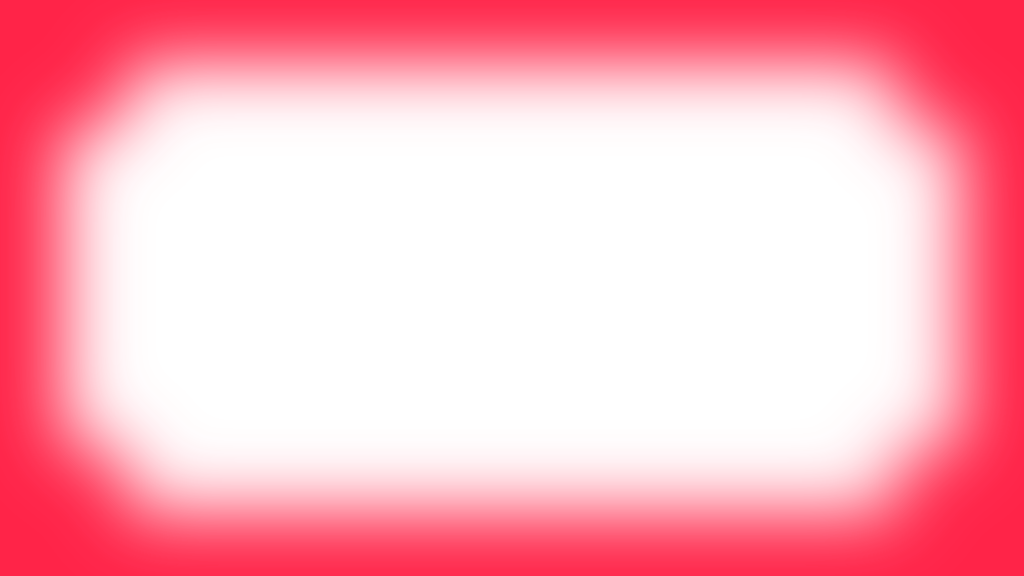
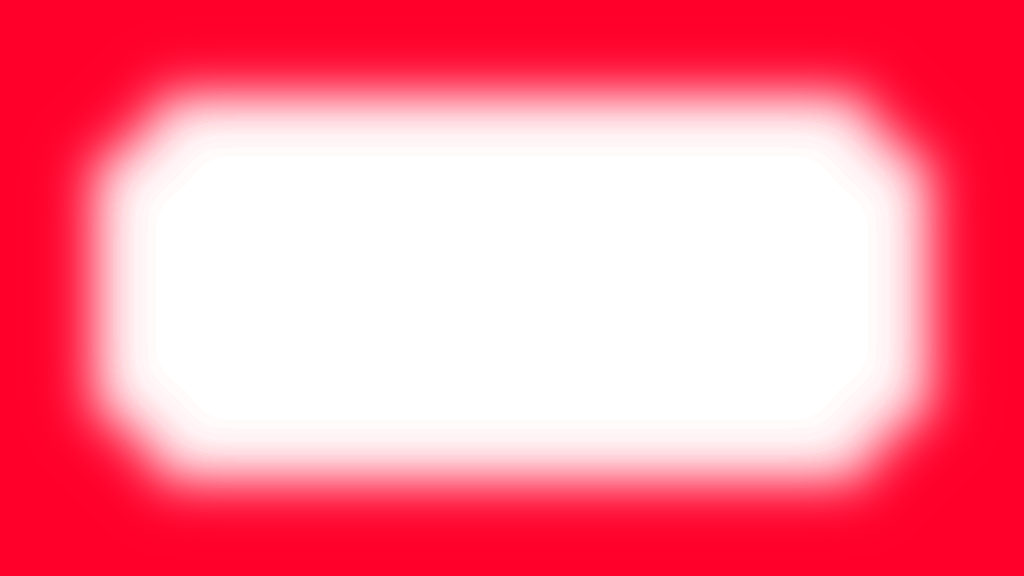
setting up visual effects to show when the player is low on HP

diff --git a/Assets/Scripts/PlayerStatManager.cs b/Assets/Scripts/PlayerStatManager.cs
@@ -75,7 +75,7 @@ public class PlayerStatManager : MonoBehaviour
     {
         // reset our hurtflash
         if (hurtUIGroup.alpha > 0)
-            hurtUIGroup.alpha -= 0.2f * Time.deltaTime;
+            hurtUIGroup.alpha -= 0.3f * Time.deltaTime;
 
         // sync up our health bars
         healthSlider.value = health / maxHealth;
